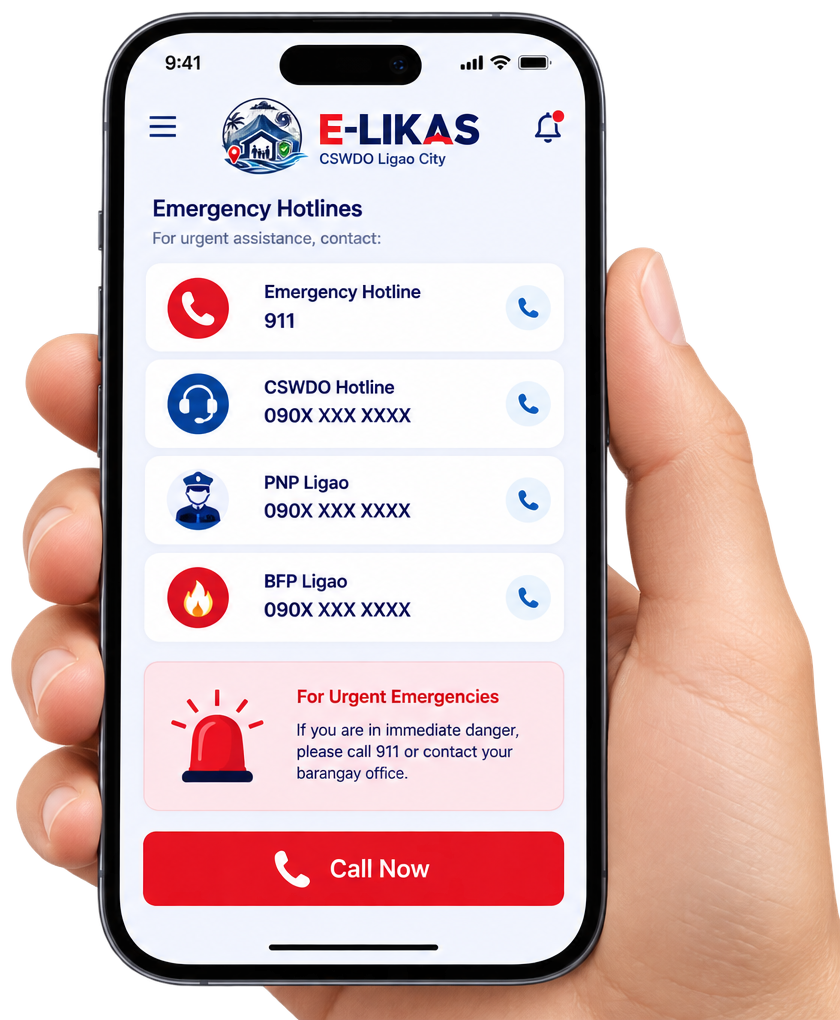
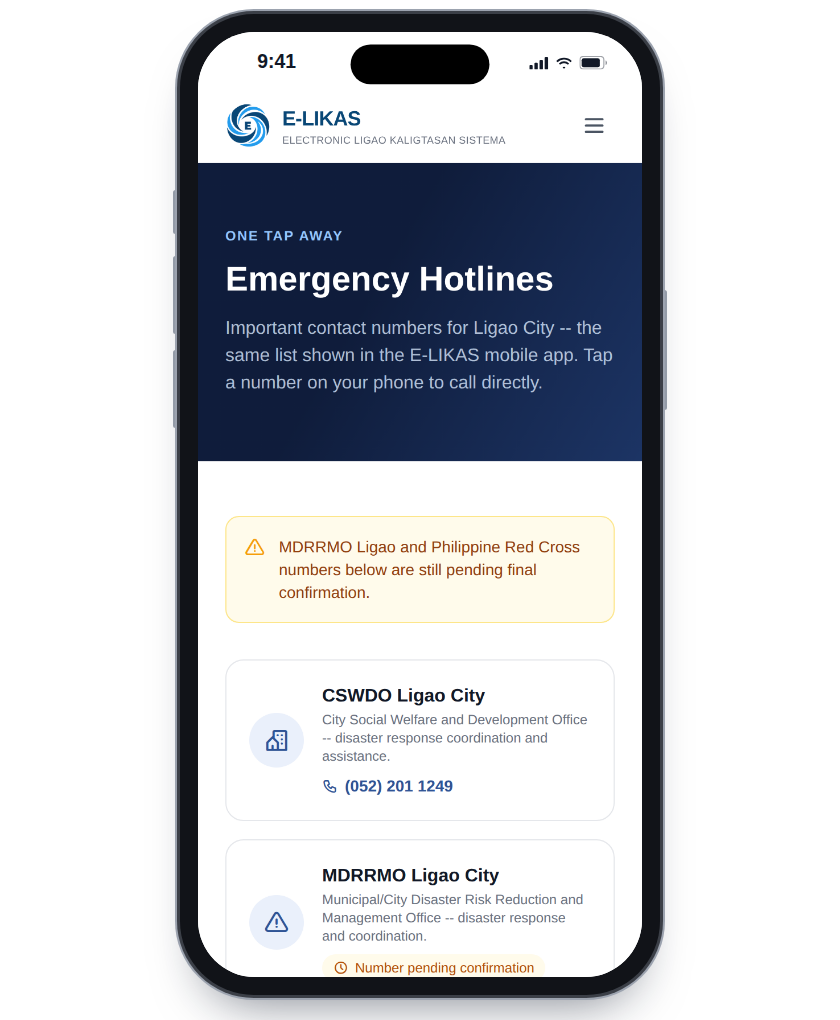
Public pages: fix phone layout, app downloads, contact image
- Phones: AOS fade-left/right elements start 100px off to the side,
  which widened the layout on phones (to 436px on a 360px screen). That
  caused a sideways scroll and pushed the "Get the Mobile App" modal and
  its close button off the screen. The page sections now use
  overflow-x: clip, which keeps the sticky header working. Body gets
  overflow-x: hidden as the fallback for browsers without clip.
- App downloads: the Android and Windows links now carry the download
  attribute. The page-transition click handler used to delay them and
  left the loading bar stuck at 70%, because a download never unloads
  the page. The mobile modal gets a 90vh fallback for browsers without
  dvh, the logo, and an Android icon.
- /download/mobile-app now uses the desktop download page's layout
  (logo, icon, amber install note). The copy is unchanged.
- Contact page: replace the phone mockup, which had the old logo and
  placeholder numbers, with the real /hotlines page on a phone.
- Remove the old emblem images, which nothing references any more.

Claude-Session: https://claude.ai/code/session_01GrFbuYzr8tujMe9TjAuLS7

diff --git a/resources/views/download-mobile-app.blade.php b/resources/views/download-mobile-app.blade.php
@@ -5,9 +5,10 @@
     <meta name="viewport" content="width=device-width, initial-scale=1.0">
     <meta name="robots" content="noindex, nofollow">
     <title>Download the Mobile App · E-LIKAS</title>
+    <link rel="stylesheet" href="https://cdn.jsdelivr.net/npm/@tabler/icons-webfont@latest/tabler-icons.min.css">
     <script src="https://cdn.tailwindcss.com"></script>
     <script>
-        tailwind.config = { theme: { extend: { colors: { brand: { DEFAULT: '#2F5496', dark: '#1F3A6E' } } } } };
+        tailwind.config = { theme: { extend: { colors: { brand: { DEFAULT: '#2F5496', dark: '#1F3A6E', light: '#EAF0FB' } } } } };
     </script>
     <style>
         body { font-family: -apple-system, BlinkMacSystemFont, 'Segoe UI', Roboto, Arial, sans-serif; }
@@ -23,33 +24,52 @@
         earlier. A simple top-anchored layout with its own top padding
         doesn't have that problem, since it's never computed from the
         viewport height at all. --}}
-    <div class="w-full max-w-md mx-auto pt-6 sm:pt-16">
-        <p class="text-xs font-semibold tracking-widest text-brand uppercase mb-2 text-center">E-LIKAS</p>
+    {{-- Same layout as download-desktop-app.blade.php, so the two
+        download pages read as one set. --}}
+    <div class="w-full max-w-lg mx-auto pt-6 sm:pt-16">
+        <a href="{{ url('/') }}" class="flex items-center justify-center gap-2.5 mb-8">
+            <img src="/images/elikas-logo-mark.png" alt="" class="w-9 h-9 object-contain">
+            <div class="leading-tight text-center">
+                <p class="font-extrabold text-base tracking-tight"><span class="text-[#094776]">E-LIKAS</span></p>
+                <p class="text-[9px] text-gray-500 tracking-wide uppercase">Electronic Ligao Kaligtasan Sistema</p>
+            </div>
+        </a>
 
-        <div class="bg-white border border-gray-200 rounded-2xl p-8 shadow-sm">
-            <h1 class="text-xl font-bold text-gray-900 mb-1 text-center">Mobile App for Residents</h1>
-            <p class="text-sm text-gray-500 mb-6 text-center">
-                Real-time disaster alerts, evacuation centers, and hazard maps -- no account needed.
-            </p>
+        <div class="bg-white border border-gray-200 rounded-2xl p-6 sm:p-8 shadow-sm">
+            <div class="flex flex-col items-center text-center mb-6">
+                <div class="w-14 h-14 rounded-full bg-brand-light flex items-center justify-center shrink-0 mb-4">
+                    <i class="ti ti-device-mobile text-brand" style="font-size: 26px;" aria-hidden="true"></i>
+                </div>
+                <h1 class="text-xl font-bold text-gray-900 mb-1">Mobile App for Residents</h1>
+                <p class="text-sm text-gray-500 max-w-sm">
+                    Real-time disaster alerts, evacuation centers, and hazard maps -- no account needed.
+                </p>
+            </div>
 
-            <p class="text-sm text-gray-600 mb-6">
+            <p class="text-sm text-gray-600 border-y border-gray-100 py-4 mb-6">
                 Get real-time disaster alerts, find the nearest evacuation center, check
                 hazard maps, and access emergency hotlines. No account needed, and it
                 works offline once you've opened it at least once.
             </p>
 
-            <a href="{{ url(config('elikas.mobile_app_download_url', '/downloads/E-LIKAS-Mobile.apk') ?? '/downloads/E-LIKAS-Mobile.apk') }}"
-                class="block text-center bg-brand hover:bg-brand-dark text-white text-sm font-semibold rounded-lg py-3 transition-colors shadow-sm">
-                Download for Android
+            {{-- download attribute: the phone saves the .apk directly rather
+                than navigating to the file URL. --}}
+            <a href="{{ url(config('elikas.mobile_app_download_url', '/downloads/E-LIKAS-Mobile.apk') ?? '/downloads/E-LIKAS-Mobile.apk') }}" download
+                class="flex items-center justify-center gap-2 bg-brand hover:bg-brand-dark text-white text-sm font-semibold rounded-lg py-3 transition-colors shadow-sm">
+                <i class="ti ti-brand-android" style="font-size: 16px;" aria-hidden="true"></i> Download for Android
             </a>
 
-            <p class="text-xs text-gray-500 mt-4 text-center">
-                Your browser may show a warning during the download itself and ask you to
-                keep/confirm the file -- this is expected. Your phone may then ask you to
-                allow installs from this source since the app isn't on the Play Store yet --
-                go to Settings and allow it when prompted, then open the downloaded file to
-                install.
-            </p>
+            {{-- Amber, same "don't be alarmed" heads-up as the desktop page. --}}
+            <div class="flex items-start gap-2 bg-amber-50 text-amber-800 text-xs rounded-lg p-3 mt-4">
+                <i class="ti ti-alert-circle shrink-0 mt-0.5" style="font-size: 15px;" aria-hidden="true"></i>
+                <p>
+                    Your browser may show a warning during the download itself and ask you to
+                    keep/confirm the file -- this is expected. Your phone may then ask you to
+                    allow installs from this source since the app isn't on the Play Store yet --
+                    go to Settings and allow it when prompted, then open the downloaded file to
+                    install.
+                </p>
+            </div>
         </div>
 
         <a href="{{ url('/privacy') }}" class="block text-center text-xs text-gray-500 hover:text-gray-600 mt-6">

diff --git a/resources/views/home.blade.php b/resources/views/home.blade.php
@@ -20,6 +20,16 @@
     </script>
     <style>
         body { font-family: -apple-system, BlinkMacSystemFont, 'Segoe UI', Roboto, Arial, sans-serif; }
+
+        /* AOS starts fade-left/right elements up to 100px off to the side.
+           Clipping the page sections keeps that offset from widening the
+           page on phones: a sideways scroll, and mobile browsers also widen
+           the whole layout to fit it, which pushed the "Get the Mobile App"
+           modal past the screen edge. clip, not hidden, so no scroll
+           container is created and the sticky header keeps working; body's
+           hidden is the fallback for browsers without clip. */
+        body { overflow-x: hidden; }
+        main, section, footer { overflow-x: clip; }
         .hidden { display: none; }
 
         /* Page transition: the destination page still pops into place on
@@ -370,12 +380,16 @@
     <div id="mobile-app-modal" class="hidden fixed inset-0 z-50 items-center justify-center p-4">
         <div id="mobile-app-modal-backdrop" class="absolute inset-0 bg-black/60 backdrop-blur-sm modal-backdrop-anim"></div>
 
-        <div id="mobile-app-modal-card" class="relative bg-white rounded-2xl max-w-md w-full max-h-[90dvh] overflow-y-auto p-6 sm:p-8 text-center modal-card-anim">
-            <button type="button" id="mobile-app-modal-close" class="absolute top-4 right-4 w-9 h-9 rounded-full border border-gray-200 flex items-center justify-center text-gray-500 hover:bg-gray-50">
+        {{-- max-height in an inline style so browsers without dvh support
+            (older Android Chrome) fall back to 90vh instead of no limit at
+            all -- the card must scroll, never run off the screen. --}}
+        <div id="mobile-app-modal-card" class="relative bg-white rounded-2xl max-w-md w-full overflow-y-auto p-6 sm:p-8 text-center modal-card-anim" style="max-height: 90vh; max-height: 90dvh;">
+            <button type="button" id="mobile-app-modal-close" aria-label="Close" class="absolute top-3 right-3 sm:top-4 sm:right-4 w-9 h-9 rounded-full border border-gray-200 flex items-center justify-center text-gray-500 hover:bg-gray-50">
                 <i class="ti ti-x" style="font-size: 16px;" aria-hidden="true"></i>
             </button>
 
-            <p class="text-brand font-bold text-2xl mb-1">E-LIKAS</p>
+            <img src="/images/elikas-logo-mark.png" alt="" class="w-12 h-12 object-contain mx-auto mb-2">
+            <p class="text-[#094776] font-bold text-2xl mb-1">E-LIKAS</p>
             <p class="text-sm text-gray-500 mb-6">Mobile App for Residents</p>
 
             <p class="text-sm text-gray-600 mb-6 text-left">
@@ -384,9 +398,13 @@
                 works offline once you've opened it at least once.
             </p>
 
-            <a href="{{ url(config('elikas.mobile_app_download_url', '/downloads/E-LIKAS-Mobile.apk') ?? '/downloads/E-LIKAS-Mobile.apk') }}"
-                class="block text-center bg-brand hover:bg-brand-dark text-white text-sm font-semibold rounded-lg py-3 transition-colors shadow-sm">
-                Download for Android
+            {{-- download attribute: the browser saves the .apk straight away
+                instead of going through the page-transition click handler
+                below, which delayed the navigation and left the loading
+                bar stuck at 70% (a download never unloads the page). --}}
+            <a href="{{ url(config('elikas.mobile_app_download_url', '/downloads/E-LIKAS-Mobile.apk') ?? '/downloads/E-LIKAS-Mobile.apk') }}" download
+                class="flex items-center justify-center gap-2 bg-brand hover:bg-brand-dark text-white text-sm font-semibold rounded-lg py-3 transition-colors shadow-sm">
+                <i class="ti ti-brand-android" style="font-size: 16px;" aria-hidden="true"></i> Download for Android
             </a>
 
             <p class="text-xs text-gray-500 mt-4 text-left">

diff --git a/resources/views/contact.blade.php b/resources/views/contact.blade.php
@@ -13,6 +13,16 @@
     <style>
         body { font-family: -apple-system, BlinkMacSystemFont, 'Segoe UI', Roboto, Arial, sans-serif; }
 
+        /* AOS starts fade-left/right elements up to 100px off to the side.
+           Clipping the page sections keeps that offset from widening the
+           page on phones: a sideways scroll, and mobile browsers also widen
+           the whole layout to fit it, which pushed the "Get the Mobile App"
+           modal past the screen edge. clip, not hidden, so no scroll
+           container is created and the sticky header keeps working; body's
+           hidden is the fallback for browsers without clip. */
+        body { overflow-x: hidden; }
+        main, section, footer { overflow-x: clip; }
+
         /* Page transition: the destination page still pops into place on
            load (slight overshoot past 100%, reads as "suddenly forming").
            The OUTGOING side no longer shrinks/fades the current page to
@@ -134,7 +144,7 @@
 
                 <div class="lg:col-span-3" data-aos="fade-left">
                     <img src="/images/contact-urgent-emergencies-card.png" alt="For urgent emergencies" class="w-full h-auto object-contain mb-6">
-                    <img src="/images/contact-hotlines-phone-mockup.png" alt="Emergency hotlines in the E-LIKAS mobile app" class="w-full max-w-xs mx-auto h-auto object-contain">
+                    <img src="/images/contact-hotlines-phone-mockup.png" alt="The E-LIKAS emergency hotlines page on a phone" class="w-full max-w-xs mx-auto h-auto object-contain">
                 </div>
             </div>
         </section>

diff --git a/resources/views/about.blade.php b/resources/views/about.blade.php
@@ -13,6 +13,16 @@
     <style>
         body { font-family: -apple-system, BlinkMacSystemFont, 'Segoe UI', Roboto, Arial, sans-serif; }
 
+        /* AOS starts fade-left/right elements up to 100px off to the side.
+           Clipping the page sections keeps that offset from widening the
+           page on phones: a sideways scroll, and mobile browsers also widen
+           the whole layout to fit it, which pushed the "Get the Mobile App"
+           modal past the screen edge. clip, not hidden, so no scroll
+           container is created and the sticky header keeps working; body's
+           hidden is the fallback for browsers without clip. */
+        body { overflow-x: hidden; }
+        main, section, footer { overflow-x: clip; }
+
         /* Page transition: the destination page still pops into place on
            load (slight overshoot past 100%, reads as "suddenly forming").
            The OUTGOING side no longer shrinks/fades the current page to

diff --git a/resources/views/community-alerts.blade.php b/resources/views/community-alerts.blade.php
@@ -13,6 +13,16 @@
     <style>
         body { font-family: -apple-system, BlinkMacSystemFont, 'Segoe UI', Roboto, Arial, sans-serif; }
 
+        /* AOS starts fade-left/right elements up to 100px off to the side.
+           Clipping the page sections keeps that offset from widening the
+           page on phones: a sideways scroll, and mobile browsers also widen
+           the whole layout to fit it, which pushed the "Get the Mobile App"
+           modal past the screen edge. clip, not hidden, so no scroll
+           container is created and the sticky header keeps working; body's
+           hidden is the fallback for browsers without clip. */
+        body { overflow-x: hidden; }
+        main, section, footer { overflow-x: clip; }
+
         @keyframes page-reform {
             0% { opacity: 0; transform: scale(0.94); }
             60% { opacity: 1; transform: scale(1.01); }

diff --git a/resources/views/find-evacuation-centers.blade.php b/resources/views/find-evacuation-centers.blade.php
@@ -13,6 +13,16 @@
     <style>
         body { font-family: -apple-system, BlinkMacSystemFont, 'Segoe UI', Roboto, Arial, sans-serif; }
 
+        /* AOS starts fade-left/right elements up to 100px off to the side.
+           Clipping the page sections keeps that offset from widening the
+           page on phones: a sideways scroll, and mobile browsers also widen
+           the whole layout to fit it, which pushed the "Get the Mobile App"
+           modal past the screen edge. clip, not hidden, so no scroll
+           container is created and the sticky header keeps working; body's
+           hidden is the fallback for browsers without clip. */
+        body { overflow-x: hidden; }
+        main, section, footer { overflow-x: clip; }
+
         @keyframes page-reform {
             0% { opacity: 0; transform: scale(0.94); }
             60% { opacity: 1; transform: scale(1.01); }

diff --git a/resources/views/hotlines.blade.php b/resources/views/hotlines.blade.php
@@ -13,6 +13,16 @@
     <style>
         body { font-family: -apple-system, BlinkMacSystemFont, 'Segoe UI', Roboto, Arial, sans-serif; }
 
+        /* AOS starts fade-left/right elements up to 100px off to the side.
+           Clipping the page sections keeps that offset from widening the
+           page on phones: a sideways scroll, and mobile browsers also widen
+           the whole layout to fit it, which pushed the "Get the Mobile App"
+           modal past the screen edge. clip, not hidden, so no scroll
+           container is created and the sticky header keeps working; body's
+           hidden is the fallback for browsers without clip. */
+        body { overflow-x: hidden; }
+        main, section, footer { overflow-x: clip; }
+
         @keyframes page-reform {
             0% { opacity: 0; transform: scale(0.94); }
             60% { opacity: 1; transform: scale(1.01); }

diff --git a/resources/views/download-desktop-app.blade.php b/resources/views/download-desktop-app.blade.php
@@ -83,7 +83,10 @@
                 </div>
             </div>
 
-            <a href="{{ url(config('elikas.desktop_app_download_url', '/downloads/E-LIKAS-Setup.exe') ?? '/downloads/E-LIKAS-Setup.exe') }}"
+            {{-- download attribute: skips the page-transition click handler
+                below, which delayed the download and left the loading bar
+                stuck (a download never unloads the page). --}}
+            <a href="{{ url(config('elikas.desktop_app_download_url', '/downloads/E-LIKAS-Setup.exe') ?? '/downloads/E-LIKAS-Setup.exe') }}" download
                 class="flex items-center justify-center gap-2 bg-brand hover:bg-brand-dark text-white text-sm font-semibold rounded-lg py-3 transition-colors shadow-sm">
                 <i class="ti ti-brand-windows" style="font-size: 16px;" aria-hidden="true"></i> Download for Windows
             </a>

diff --git a/docs/design-system.md b/docs/design-system.md
@@ -357,10 +357,13 @@ A 40px `gray-300` decorative icon, a 14px `gray-700` medium line, a 14px
 - **On navy or any dark background** (sidebar, public footer): put the mark on
   a white circle, mark at 78% of the circle. Its dark-navy arms vanish against
   navy otherwise.
-- **About page mockup:** `public/images/about-dashboard-mockup.png` is built
-  from real screenshots of the dashboard (laptop), the dashboard on a phone,
-  and the resident home page on a phone. When the dashboard changes, retake
-  the screenshots rather than editing the image by hand.
+- **Mockup images:** `public/images/about-dashboard-mockup.png` (About page)
+  is built from real screenshots of the dashboard (laptop), the dashboard on
+  a phone, and the resident home page on a phone.
+  `public/images/contact-hotlines-phone-mockup.png` (Contact page) is the real
+  `/hotlines` page on a phone, so it shows the actual numbers. When either
+  page changes (a hotline number, the dashboard layout), retake the
+  screenshots rather than editing the image by hand.
 
 ## Checking your work
 
